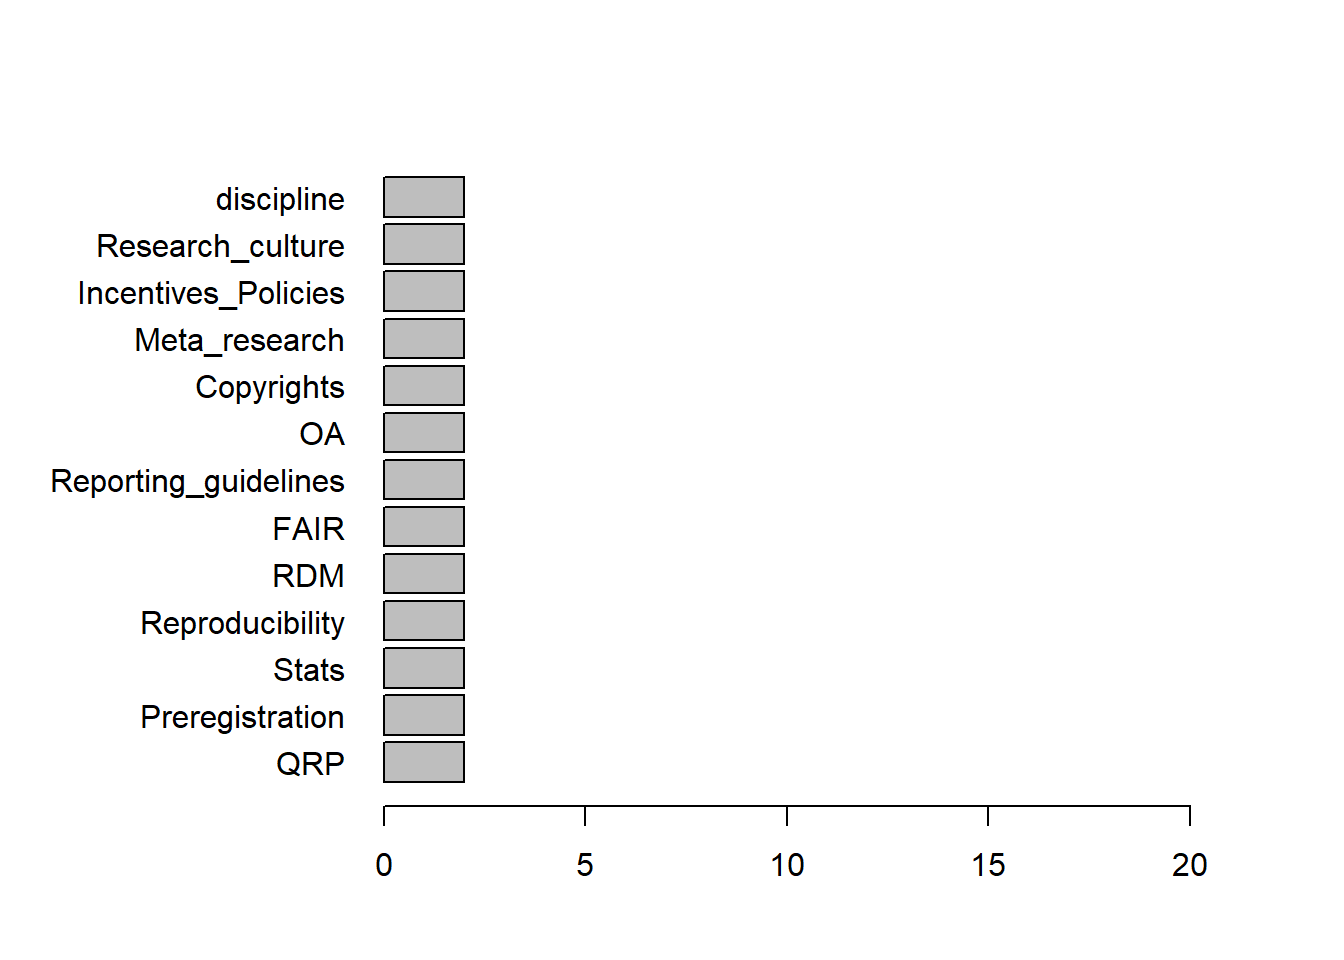
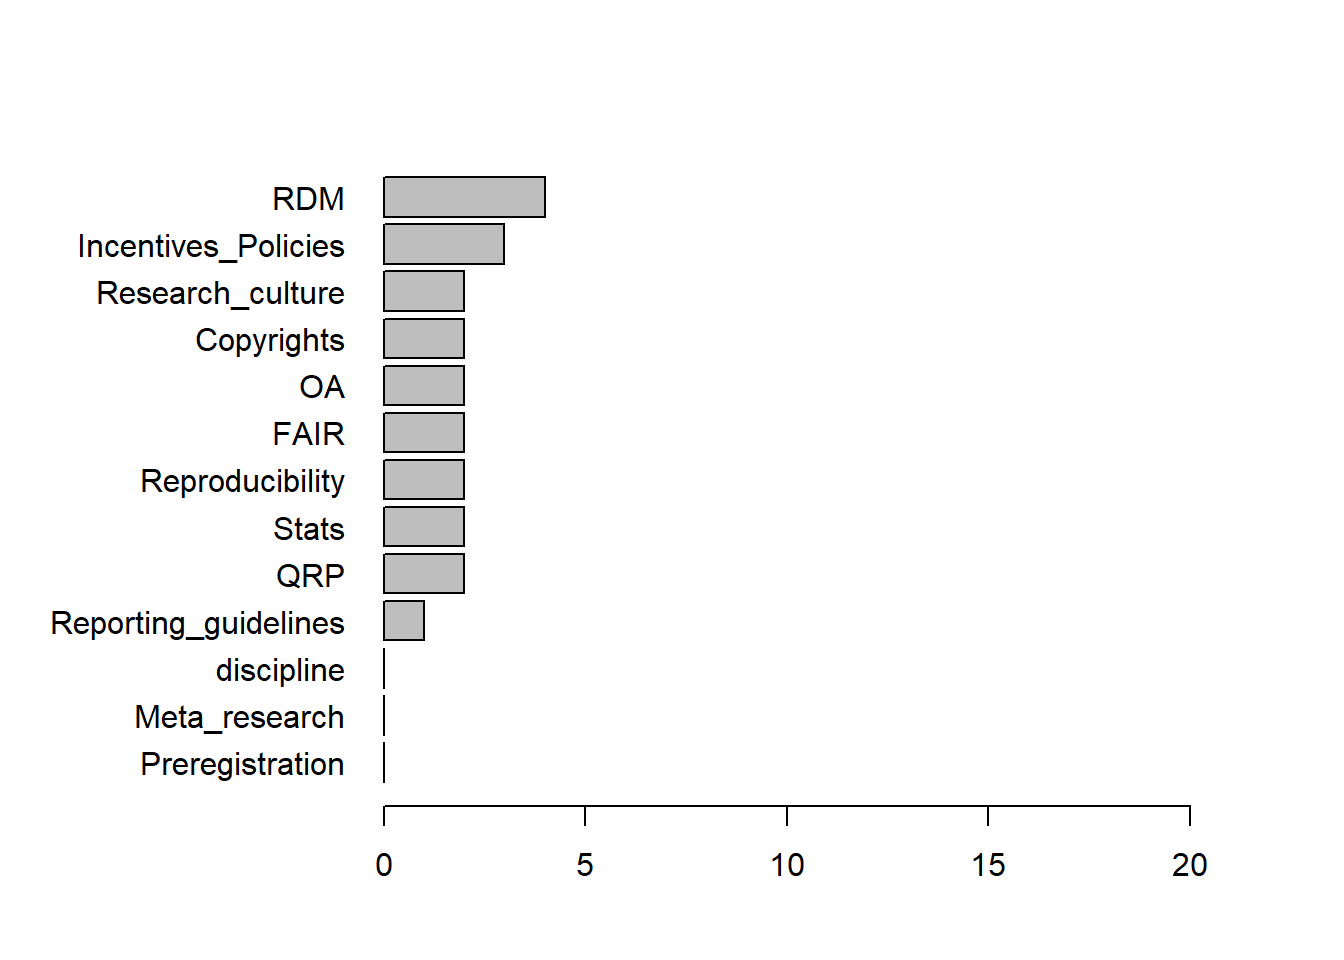
first real data

Changed region(s): [[0.0312, 0.25, 0.3438, 0.8125], [0.3438, 0.1562, 0.4062, 0.2812], [0.1562, 0.1875, 0.2812, 0.2188]]

diff --git a/OSC survery results.html b/OSC survery results.html
@@ -59,7 +59,7 @@ ul.task-list{list-style: none;}
 <div class="cell">
 
 </div>
-<p>Total number of participant in the OSC survey: <strong>2</strong></p>
+<p>Total number of participant in the OSC survey: <strong>4</strong></p>
 </section>
 <section id="survey-resuts" class="level2">
 <h2 class="anchored" data-anchor-id="survey-resuts">Survey Resuts</h2>
@@ -70,8 +70,8 @@ ul.task-list{list-style: none;}
 <div class="cell">
 <div class="cell-output cell-output-stdout">
 <pre><code>
-unknown 
-      2 </code></pre>
+ No Yes 
+  1   3 </code></pre>
 </div>
 </div>
 </section>
@@ -80,8 +80,8 @@ unknown
 <div class="cell">
 <div class="cell-output cell-output-stdout">
 <pre><code>
-World 
-    2 </code></pre>
+   LMU Munich 
+     3      1 </code></pre>
 </div>
 </div>
 </section>
@@ -90,8 +90,14 @@ World
 <div class="cell">
 <div class="cell-output cell-output-stdout">
 <pre><code>
-Math, Statistics, Informatics, Physics 
-                                     2 </code></pre>
+Art, humanities, history, linguistics, and culture science 
+                                                         1 
+                   Law, Economics, Business Administration 
+                                                         1 
+                    Math, Statistics, Informatics, Physics 
+                                                         1 
+         Social sciences, Psychology, educational sciences 
+                                                         1 </code></pre>
 </div>
 </div>
 </section>
@@ -100,13 +106,13 @@ Math, Statistics, Informatics, Physics
 <div class="cell">
 <div class="cell-output cell-output-stdout">
 <pre><code>
-other 
-    2 </code></pre>
+other   PhD    PI 
+    1     1     2 </code></pre>
 </div>
 <div class="cell-output cell-output-stdout">
 <pre><code>
-thank the formr monkey 
-                     2 </code></pre>
+Consultant 
+         1 </code></pre>
 </div>
 </div>
 </section>
@@ -131,9 +137,7 @@ thank the formr monkey
 <h4 class="anchored" data-anchor-id="other-activities">Other activities</h4>
 <div class="cell">
 <div class="cell-output cell-output-stdout">
-<pre><code>
-thank the formr monkey 
-                     2 </code></pre>
+<pre><code>&lt; table of extent 0 &gt;</code></pre>
 </div>
 </div>
 </section>
@@ -150,14 +154,10 @@ thank the formr monkey
 <h4 class="anchored" data-anchor-id="other-topics-and-specific-discipline">Other topics and specific discipline</h4>
 <div class="cell">
 <div class="cell-output cell-output-stdout">
-<pre><code>
-thank the formr monkey 
-                     2 </code></pre>
+<pre><code>&lt; table of extent 0 &gt;</code></pre>
 </div>
 <div class="cell-output cell-output-stdout">
-<pre><code>
-thank the formr monkey 
-                     2 </code></pre>
+<pre><code>&lt; table of extent 0 &gt;</code></pre>
 </div>
 </div>
 </section>
@@ -183,9 +183,7 @@ thank the formr monkey
 <h4 class="anchored" data-anchor-id="other-participation">Other participation</h4>
 <div class="cell">
 <div class="cell-output cell-output-stdout">
-<pre><code>
-thank the formr monkey 
-                     2 </code></pre>
+<pre><code>&lt; table of extent 0 &gt;</code></pre>
 </div>
 </div>
 </section>
@@ -195,7 +193,7 @@ thank the formr monkey
 <p>‘If you have any comment(s) about what would help you feel comfortable contributing (e.g., language, online vs.&nbsp;in-person events, synchronous vs asynchronous contributions), please indicate them here:’</p>
 <div class="cell">
 <div class="cell-output cell-output-stdout">
-<pre><code>[1] "thank the formr monkey\nmany times" "thank the formr monkey\nmany times"</code></pre>
+<pre><code>character(0)</code></pre>
 </div>
 </div>
 </section>
@@ -204,7 +202,7 @@ thank the formr monkey
 <p>‘If you have any other suggestions, please indicate them here:’</p>
 <div class="cell">
 <div class="cell-output cell-output-stdout">
-<pre><code>[1] "thank the formr monkey\nmany times" "thank the formr monkey\nmany times"</code></pre>
+<pre><code>[1] "Thanks a lot for the efforts. The last 2.5 years where hard to stay active and interact with the group. I hope this becomes more easy again."</code></pre>
 </div>
 </div>
 </section>
